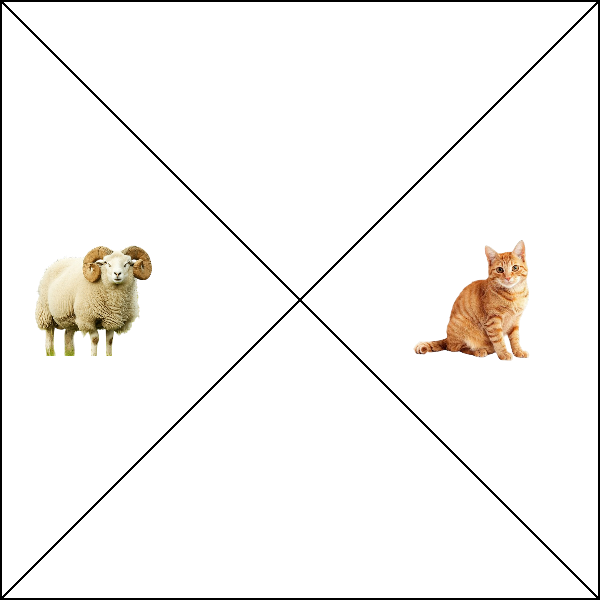
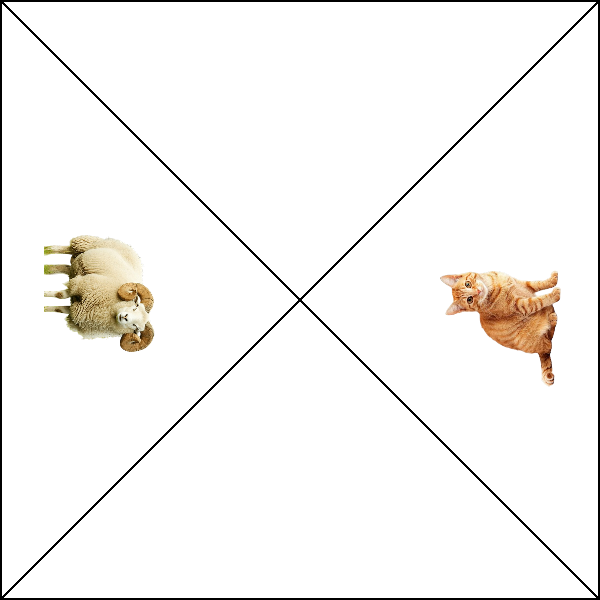
добавлен поворот картинок при генерации

Changed region(s): [[0.06, 0.39, 0.27, 0.6], [0.69, 0.39, 0.96, 0.66]]

diff --git a/generate_level.py b/generate_level.py
@@ -56,6 +56,7 @@ def generate(img_width, img_height, image_direct, format, field_direct, final_di
     #    1
     #  0   2
     #    3
+    rotations = [-90, 0, 90, 0]
     coords_for_image = [(0, img_height), (img_width, 0), (2 * img_width, img_height), (img_width, img_height * 2)]
     field = [[("", 1) for i in range(4)] for x in range(4)]
     indexes_images = [(0, 2), (1, 3), (1, 3), (0, 2)]
@@ -64,25 +65,27 @@ def generate(img_width, img_height, image_direct, format, field_direct, final_di
     for i in range(4):
         background = Image.open(f'{field_direct}/{i + 1}.png')
         overlay1 = Image.open(f"{image_direct}/{counter}{format}")
+        rotated1 = overlay1.rotate(rotations[indexes_images[i][0]])
         if overlay1.mode == 'RGBA':
-            background.paste(overlay1, coords_for_image[indexes_images[i][0]], overlay1)
+            background.paste(rotated1, coords_for_image[indexes_images[i][0]], rotated1)
         else:
-            background.paste(overlay1, coords_for_image[indexes_images[i][0]])
+            background.paste(rotated1, coords_for_image[indexes_images[i][0]])
         counter += 1
         overlay2 = Image.open(f"{image_direct}/{counter}{format}")
+        rotated2 = overlay2.rotate(rotations[indexes_images[i][1]])
         if overlay2.mode == 'RGBA':
-            background.paste(overlay2, coords_for_image[indexes_images[i][1]], overlay2)
+            background.paste(rotated2, coords_for_image[indexes_images[i][1]], rotated2)
         else:
-            background.paste(overlay2, coords_for_image[indexes_images[i][1]])
+            background.paste(rotated2, coords_for_image[indexes_images[i][1]])
         counter += 1
         background.save(f'{final_direct}/{i + 1}{format}')
 
 
 if __name__ == "__main__":
-    # generate(IMAGE_WIDTH, IMAGE_HEIGHT, DIRECTORY_IMAGES, FORMAT_IMAGE, DIRECTORY_FIELD, DIRECTORY_FINAL_FIELD) # результат в final_field
+    generate(IMAGE_WIDTH, IMAGE_HEIGHT, DIRECTORY_IMAGES, FORMAT_IMAGE, DIRECTORY_FIELD, DIRECTORY_FINAL_FIELD) # результат в final_field
     # generate_field("test")
     # text_on_pic("final_field/1.png", "тигр", (200, 100))
-    img = Image.open('final_field/1.png')
-    font = ImageFont.truetype("arial.ttf", 36)
-    add_centered_text(img, "тигр", img.width // 2, 100, font)
-    img.save('output.png')
+    # img = Image.open('final_field/1.png')
+    # font = ImageFont.truetype("arial.ttf", 36)
+    # add_centered_text(img, "тигр", img.width // 2, 100, font)
+    # img.save('output.png')

diff --git a/text_nal2.py b/text_nal2.py
@@ -64,8 +64,8 @@ img = Image.open('result.png')
 font = ImageFont.truetype("arial.ttf", 36)
 
 # Разные варианты
-add_centered_text(img, "горизонтально", img.width//2, 80, font, rotation=0)
-add_centered_text(img, "вертикально", img.width//2, 180, font, color=(255, 0, 0), rotation=90)
-add_centered_text(img, "вверх ногами", img.width//2, 280, font, color=(0, 0, 255), rotation=-90)
+#add_centered_text(img, "горизонтально", img.width//2, 80, font, rotation=0)
+#add_centered_text(img, "вертикально", img.width//2, 180, font, color=(255, 0, 0), rotation=90)
+add_centered_text(img, "вверх ногами", 300, 100, font, color=(0, 0, 255), rotation=-90)
 
 img.save('output.png')
